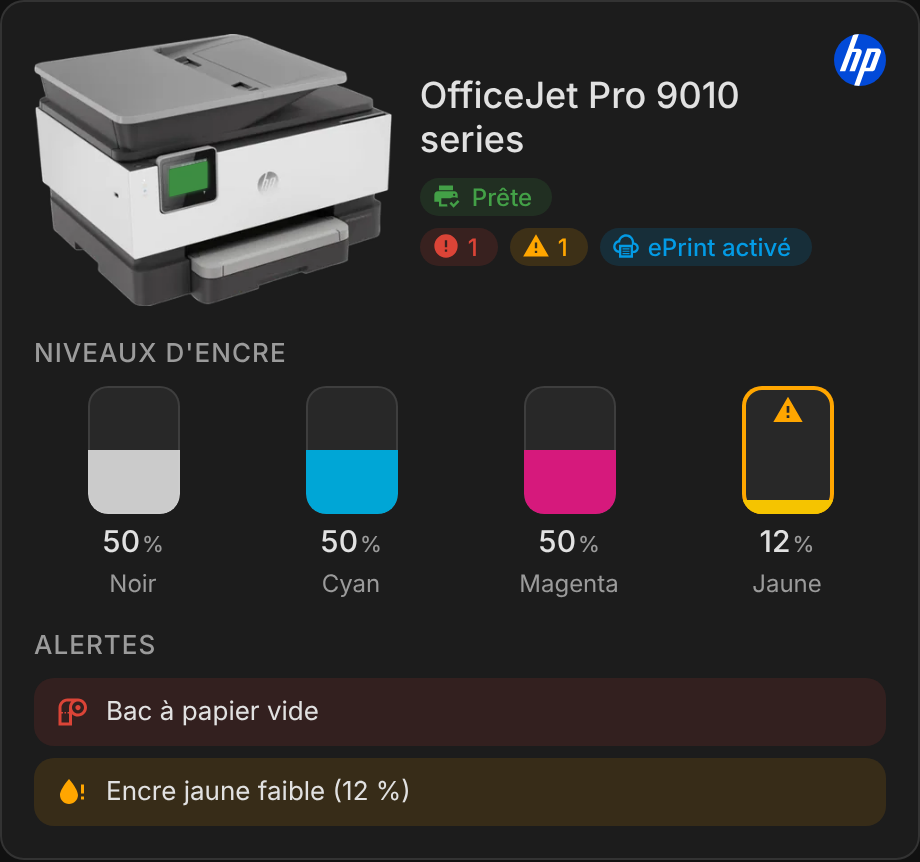
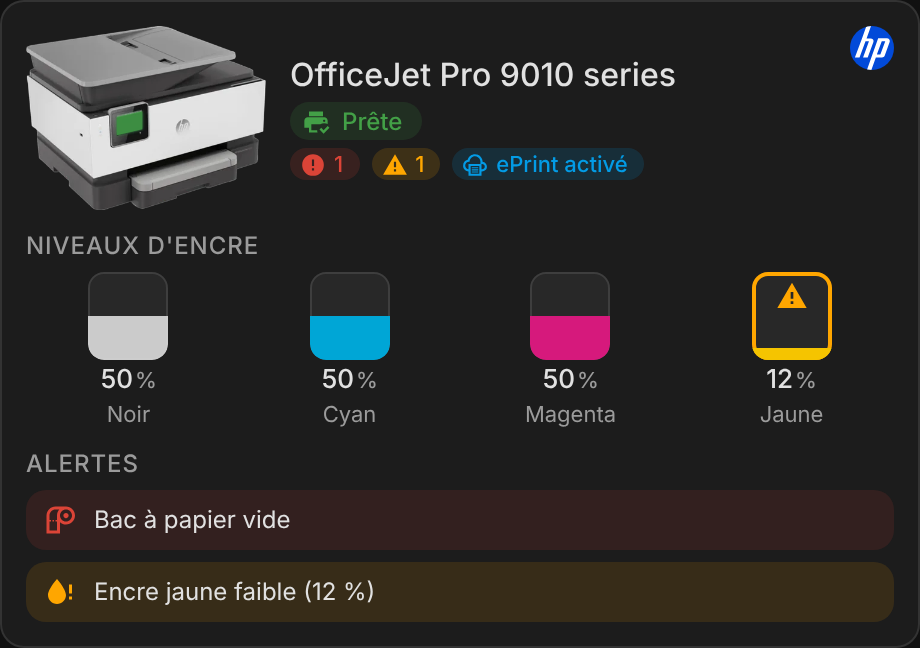
Compact layout with the same information (1.4.0) (#5)
Claude-Session: https://claude.ai/code/session_01FyVHJkuQopwM66ytqwsrgB

diff --git a/src/hp-printer-card.js b/src/hp-printer-card.js
@@ -719,16 +719,16 @@ class HpPrinterCard extends HTMLElement {
   _styles(color) {
     return '<style>' +
       ':host { display: block; height: 100%; --hp-color: ' + (color || 'var(--disabled-text-color, #9e9e9e)') + '; }' +
-      'ha-card { height: 100%; box-sizing: border-box; padding: 16px; display: flex; flex-direction: column; gap: 16px; }' +
+      'ha-card { height: 100%; box-sizing: border-box; padding: 12px; display: flex; flex-direction: column; gap: 10px; }' +
       '.empty { display: flex; align-items: center; gap: 10px; color: var(--secondary-text-color); }' +
-      '.head { position: relative; display: flex; align-items: center; gap: 14px; }' +
-      '.logo { position: absolute; top: 0; right: 0; width: 26px; height: 26px; line-height: 0; transition: transform 0.2s; }' +
+      '.head { position: relative; display: flex; align-items: center; gap: 12px; }' +
+      '.logo { position: absolute; top: 0; right: 0; width: 22px; height: 22px; line-height: 0; transition: transform 0.2s; }' +
       '.logo svg { width: 100%; height: 100%; }' +
       '.logo:hover { transform: scale(1.08); }' +
       '.head:has(.logo) .meta { padding-right: 30px; }' +
       'a.pic { cursor: pointer; }' +
       'a.pic:hover img { filter: brightness(1.06); }' +
-      '.pic { display: block; position: relative; width: 42%; max-width: 190px; flex-shrink: 0; transition: filter 0.4s, opacity 0.4s; }' +
+      '.pic { display: block; position: relative; width: 28%; max-width: 120px; flex-shrink: 0; transition: filter 0.4s, opacity 0.4s; }' +
       '.pic img { display: block; width: 100%; height: auto; }' +
       '.pic svg { position: absolute; inset: 0; width: 100%; height: 100%; }' +
       '.screen { fill: var(--hp-color); opacity: 0.85; filter: drop-shadow(0 0 6px var(--hp-color)); }' +
@@ -736,37 +736,37 @@ class HpPrinterCard extends HTMLElement {
       '@keyframes hp-glow { 0%, 100% { opacity: 0.95; } 50% { opacity: 0.45; } }' +
       '.pic.off { filter: grayscale(1); opacity: 0.55; }' +
       '.pic.off .screen { display: none; }' +
-      '.meta { flex: 1; min-width: 0; display: flex; flex-direction: column; gap: 6px; }' +
-      '.name { font-size: 18px; font-weight: 500; color: var(--primary-text-color); line-height: 1.25; }' +
+      '.meta { flex: 1; min-width: 0; display: flex; flex-direction: column; gap: 4px; }' +
+      '.name { font-size: 16px; font-weight: 500; color: var(--primary-text-color); line-height: 1.25; }' +
       '.status { display: inline-flex; align-items: center; gap: 6px; align-self: flex-start; font-size: 12px; font-weight: 500; color: var(--hp-color);' +
         ' padding: 2px 10px 2px 6px; border-radius: 12px; background: color-mix(in srgb, var(--hp-color) 15%, transparent); }' +
       '.status ha-icon { --mdc-icon-size: 14px; }' +
       '.chips { display: flex; flex-wrap: wrap; gap: 6px; }' +
-      '.chip { display: inline-flex; align-items: center; gap: 4px; font-size: 12px; font-weight: 500; padding: 2px 10px 2px 6px; border-radius: 12px; }' +
-      '.chip ha-icon { --mdc-icon-size: 14px; }' +
+      '.chip { display: inline-flex; align-items: center; gap: 4px; font-size: 11px; font-weight: 500; padding: 1px 8px 1px 5px; border-radius: 12px; }' +
+      '.chip ha-icon { --mdc-icon-size: 13px; }' +
       '.chip.error { background: color-mix(in srgb, var(--error-color, #db4437) 15%, transparent); color: var(--error-color, #db4437); }' +
       '.chip.warn { background: color-mix(in srgb, var(--warning-color, #ffa600) 15%, transparent); color: var(--warning-color, #ffa600); }' +
             '.chip.on { background: color-mix(in srgb, var(--info-color, #039be5) 15%, transparent); color: var(--info-color, #039be5); }' +
       '.chip.muted { background: var(--secondary-background-color, rgba(128,128,128,0.12)); color: var(--secondary-text-color); }' +
-      '.sub { font-size: 12px; color: var(--secondary-text-color); line-height: 1.4; display: flex; align-items: center; gap: 5px; flex-wrap: wrap; }' +
+      '.sub { font-size: 11px; color: var(--secondary-text-color); line-height: 1.4; display: flex; align-items: center; gap: 5px; flex-wrap: wrap; }' +
       '.sub ha-icon { --mdc-icon-size: 15px; }' +
       '.muted { color: var(--secondary-text-color); opacity: 0.85; }' +
-      '.section { display: flex; flex-direction: column; gap: 8px; }' +
-      '.section-title { font-size: 13px; font-weight: 500; color: var(--secondary-text-color); text-transform: uppercase; letter-spacing: 0.04em; }' +
-      '.inks { display: grid; grid-template-columns: repeat(var(--n), minmax(0, 1fr)); gap: 10px; }' +
-      '.ink { display: flex; flex-direction: column; align-items: center; gap: 4px; min-width: 0; }' +
-      '.tank { position: relative; width: 100%; max-width: 46px; height: 64px; border-radius: 10px; overflow: hidden;' +
+      '.section { display: flex; flex-direction: column; gap: 6px; }' +
+      '.section-title { font-size: 12px; font-weight: 500; color: var(--secondary-text-color); text-transform: uppercase; letter-spacing: 0.04em; }' +
+      '.inks { display: grid; grid-template-columns: repeat(var(--n), minmax(0, 1fr)); gap: 8px; }' +
+      '.ink { display: flex; flex-direction: column; align-items: center; gap: 2px; min-width: 0; }' +
+      '.tank { position: relative; width: 100%; max-width: 40px; height: 44px; border-radius: 8px; overflow: hidden;' +
         ' background: var(--secondary-background-color, rgba(128,128,128,0.12)); box-shadow: inset 0 0 0 1px var(--divider-color, rgba(128,128,128,0.25)); }' +
-      '.level { position: absolute; left: 0; right: 0; bottom: 0; border-radius: 0 0 10px 10px; transition: height 0.6s ease; }' +
+      '.level { position: absolute; left: 0; right: 0; bottom: 0; border-radius: 0 0 8px 8px; transition: height 0.6s ease; }' +
       '.ink.low .tank, .ink.bad .tank { box-shadow: inset 0 0 0 2px var(--warning-color, #ffa600); }' +
       '.ink.bad .tank, .ink.crit .tank { box-shadow: inset 0 0 0 2px var(--error-color, #db4437); }' +
       '.flag { position: absolute; top: 4px; left: 50%; transform: translateX(-50%); --mdc-icon-size: 16px; color: var(--warning-color, #ffa600); }' +
       '.ink.bad .flag, .ink.crit .flag { color: var(--error-color, #db4437); }' +
-      '.pct { font-size: 15px; font-weight: 500; color: var(--primary-text-color); }' +
+      '.pct { font-size: 13px; font-weight: 500; color: var(--primary-text-color); }' +
       '.pct small { font-size: 11px; font-weight: 500; margin-left: 1px; color: var(--secondary-text-color); }' +
-      '.lbl { font-size: 12px; color: var(--secondary-text-color); white-space: nowrap; overflow: hidden; text-overflow: ellipsis; max-width: 100%; }' +
+      '.lbl { font-size: 11px; color: var(--secondary-text-color); white-space: nowrap; overflow: hidden; text-overflow: ellipsis; max-width: 100%; }' +
       '.alerts { display: flex; flex-direction: column; gap: 6px; }' +
-      '.alert { display: flex; align-items: center; gap: 8px; font-size: 13px; padding: 8px 10px; border-radius: 10px;' +
+      '.alert { display: flex; align-items: center; gap: 8px; font-size: 12px; padding: 6px 8px; border-radius: 10px;' +
         ' background: var(--secondary-background-color, rgba(128,128,128,0.1)); color: var(--primary-text-color); }' +
       '.alert ha-icon { --mdc-icon-size: 18px; flex-shrink: 0; }' +
       '.alert.error { background: color-mix(in srgb, var(--error-color, #db4437) 12%, transparent); } .alert.error ha-icon { color: var(--error-color, #db4437); }' +

diff --git a/CHANGELOG.md b/CHANGELOG.md
@@ -1,5 +1,11 @@
 # Changelog
 
+## 1.4.0
+
+### Changes
+- More compact layout with the same information, like the other ha-* cards: 12 px card padding, 36 px header icon, 16 px name and 12 px subtitle, 11 px pills, tighter tiles and sections.
+- Printer picture 42 % (max 190 px) → 28 % (max 120 px), ink tanks 64 → 44 px, lower alerts.
+
 ## 1.3.3
 
 ### Changes
